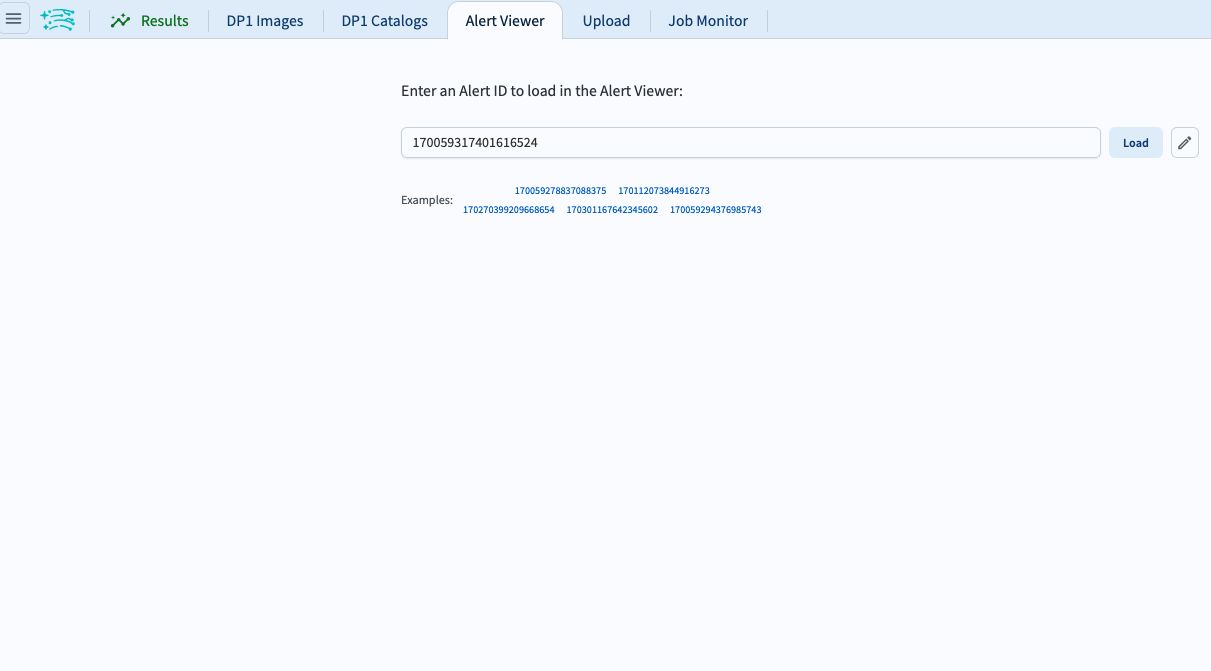
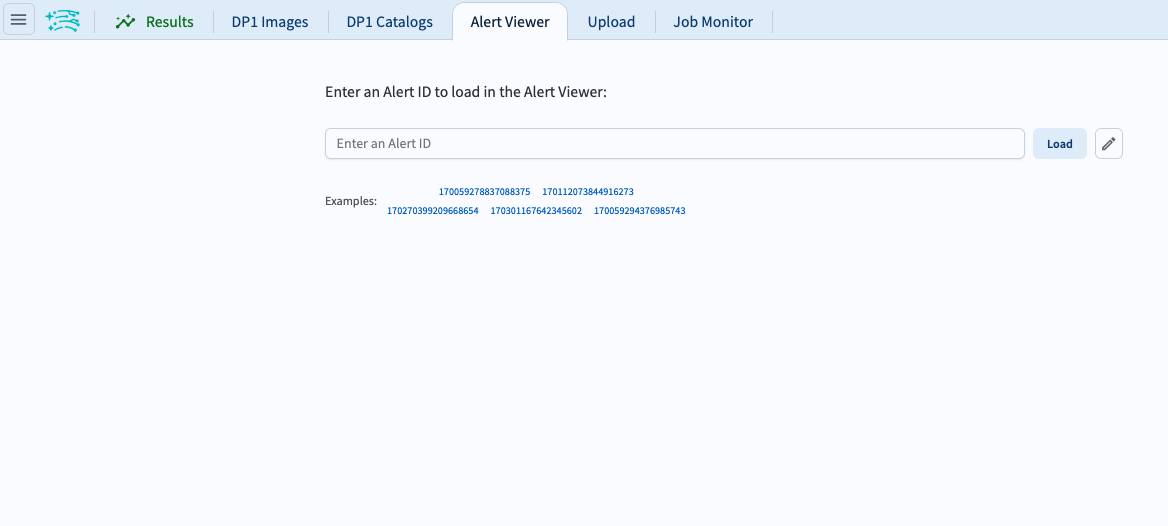
update 101-1 portal tutorial

diff --git a/docs/tutorials/portal/101/portal-101-1.rst b/docs/tutorials/portal/101/portal-101-1.rst
@@ -1,18 +1,18 @@
 .. _portal-101-1:
 
 #######################################
-101.1. Navigate the alerts archive interface
+101.1. Use the Alerts Viewer interface
 #######################################
 
 For the Portal Aspect of the Rubin Science Platform (RSP) at data.lsst.cloud.
 
-**Data Release:** 
+**Data Release:** Prompt Products
 
-**Last verified to run:** 
+**Last verified to run:** 05/08/2026
 
-**Learning objective:** Navigate the main components of the Portal's alerts archive interface.
+**Learning objective:** Use the Alert Viewer to access the contents of a single alert packet retrieved by alert ID. 
 
-**LSST data products:** 
+**LSST data products:** Alert packets.
 
 **Credit:** Originally developed by the Rubin Community Science team.
 Please consider acknowledging them if this tutorial is used for the preparation of journal articles, software releases, or other tutorials.
@@ -22,41 +22,37 @@ Rubin staff will respond to all questions posted there.
 
 ----
 
-**1. Go to the RSP.**
-In a web browser go to the RSP using the URL `data.lsst.cloud <https://data.lsst.cloud/>`_.
+**1. Log into the RSP and enter the Portal Aspect.**
+In a web browser go to `data.lsst.cloud <https://data.lsst.cloud/>`_, log in and click on the "Portal" panel. 
 
-**2. Log in.**
-On the RSP landing page (Figure 1), if "Log in" appears at upper right instead of your username, click "Log in" and follow the prompts to authenticate.
-
-** 3. Click on the Alert Viewer tab. Enter alert id 170059317401616524 and hit "load". The pencil button next to load allows you to view recent alert ids. 
+**2. Select the alert viewer.** 
+Click on the tab labeled "Alert Viewer". The Alert Viewer requires a known Alert ID. For the purpose of this tutorial, use the Alert ID 170059317401616524. The ALeRCE broker identified the `object associated with this alert<https://lsst.alerce.online/object/170059286935240883?survey=lsst>` as a potential Active Galactic Nucleus (AGN).   
 
 .. figure:: images/portal-101-1-1.png
     :name: portal-101-1-1
     :alt: 
 
-    Figure 1: 
+    Figure 1: The Alert Viewer search interface.
 
-.. figure:: images/portal-101-1-4.png
-    :name: portal-101-1-4
-    :alt: 
+**3. Retrieve the contents of a single alert.**
+Enter alert id 170059317401616524 and hit "load". The pencil button next to the "load" button shows Alert IDs from recent searches. 
 
-    Figure 2: 
-
-** 4. Review the results for alert id 170059317401616524. The results interface default view includes the alert summary, results from the diaSource table, and image stamps. 
+**4. Examine the results for the alert.** 
+The results include the full alert packet, image stamps, contents from the diaSource table, and a light curve. The top left panel includes shows the full alert packet. The top right panel shows the results from the diaSource table for the diaObjectId associated with the alert. The bottom panel shows 3 image staps: the science image, the template image, and the difference image.  
 
 .. figure:: images/portal-101-1-2.png
     :name: portal-101-1-2
     :alt: 
 
-    Figure 3: 
+    Figure 2: The default view for the results interface for the Alert Viewer.  
 
-** 5. Click on "chart" to view the light curve.
+**5. View the light curve.**
+Click on 'Chart' to change the view to the light curve for the diaObject associated with the alert. 
 
 .. figure:: images/portal-101-1-3.png
     :name: portal-101-1-3
     :alt: 
 
-    Figure 4: 
+    Figure 3: The light curve for the diaObject associated with the alert. 
 
-** 6.
 
